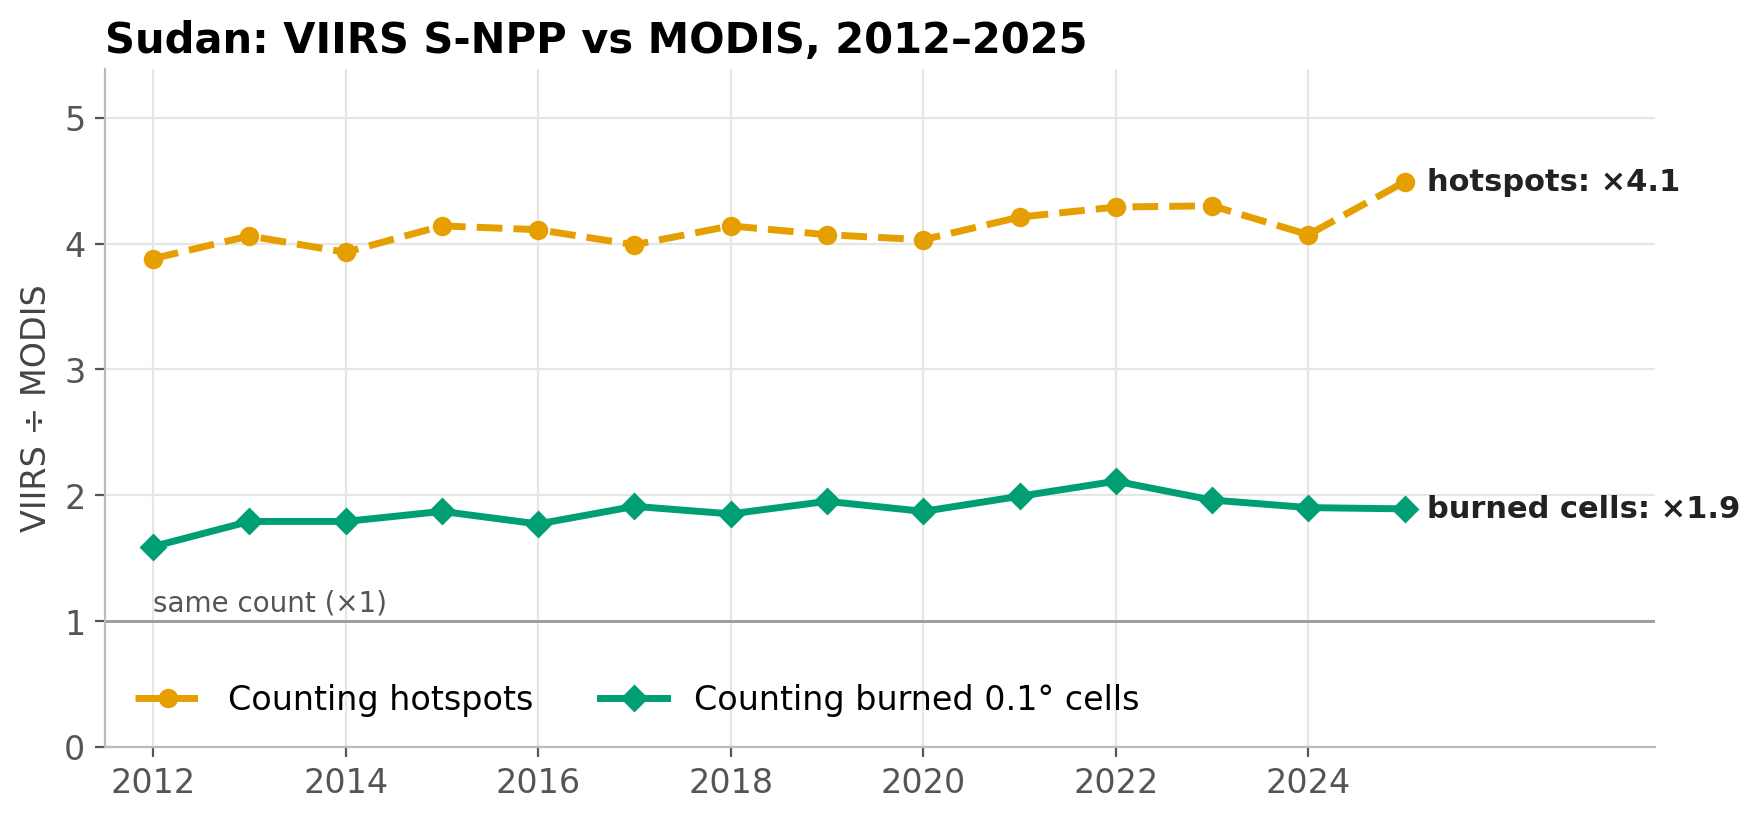
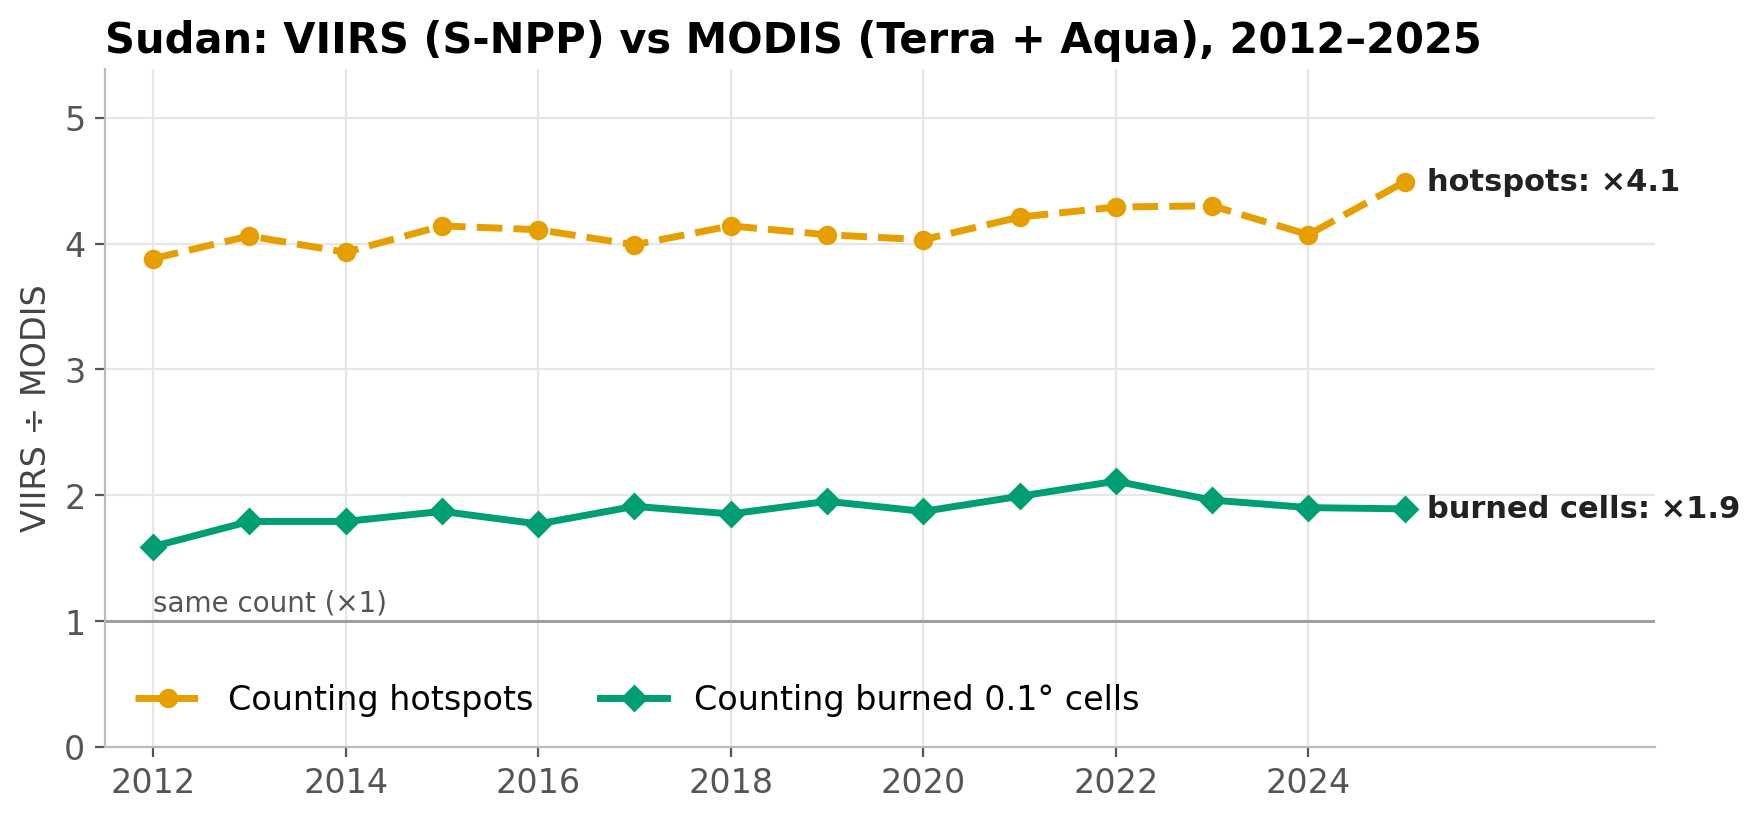
Sudan sensor comparison: verified counts, fair same-pass test
- Counts recomputed independently from clean.py's per-file outputs: identical.
- Ratios now say what they compare: one VIIRS satellite vs both MODIS satellites (x4.1;
  x6.8 vs Aqua alone).
- same_pass corrects for Aqua swath gaps (only 1 deg boxes both satellites saw fire in that day)
  and pixel size (neighbouring 0.1 deg cell counts), 2012-2021 before Aqua's drift:
  VIIRS sees 93% of MODIS fire cells, MODIS 67% of VIIRS (uncorrected 71% / 22% overstated it).

Changed region(s): [[0.2188, 0.0, 0.8438, 0.0916]]

diff --git a/syntra/compare.py b/syntra/compare.py
@@ -1,7 +1,8 @@
 """Step 3 of the team checklist: how MODIS and VIIRS differ (resolution and sensitivity), on clean data.
 
 Input: clean vegetation fires from syntra.pipeline.load_country (static sources removed, inside the border).
-Compares MODIS (Terra + Aqua) with ONE VIIRS satellite (Suomi NPP) over full years both flew.
+Compares MODIS (BOTH satellites, Terra + Aqua) with ONE VIIRS satellite (Suomi NPP) over full years both flew.
+Read the ratios that way: against Aqua alone, S-NPP has about 7x the hotspots in Sudan, against Terra alone ~11x.
 
     from syntra.pipeline import load_country
     from syntra import compare
@@ -15,7 +16,8 @@ Questions it answers
 1. Resolution: VIIRS pixels are ~7x smaller, so one fire gives several VIIRS hotspots. Counting burned
    0.1 deg cells instead of points removes much of that (hotspot ratio vs cell ratio).
 2. Sensitivity: does VIIRS see the fires MODIS sees, plus extra small ones? Aqua and Suomi NPP both pass at
-   about 13:30 local time, so on the same day and the same 0.1 deg cell they look at the same fire.
+   about 13:30 local time, so on the same day near the same 0.1 deg cell they look at the same fire
+   (same_pass corrects for swath gaps and pixel size; see its docstring).
 """
 import numpy as np
 import pandas as pd
@@ -67,41 +69,55 @@ def monthly_correlation(veg, years=YEARS):
             "n_months": len(cs)}
 
 
-def same_pass(veg, years=YEARS):
-    """Aqua vs Suomi NPP, daytime, same date and same 0.1 deg cell (both pass at about 13:30).
+def _cell_days(rows):
+    """One row per (day, 0.1 deg cell, 1 deg box) with the strongest FRP that day."""
+    r = rows.assign(cy=np.floor(rows.latitude * 10).astype(int), cx=np.floor(rows.longitude * 10).astype(int),
+                    by=np.floor(rows.latitude).astype(int), bx=np.floor(rows.longitude).astype(int))
+    return r.groupby(["acq_date", "cy", "cx"], as_index=False).agg(by=("by", "first"), bx=("bx", "first"),
+                                                                    month=("month", "first"), frp=("frp", "max"))
 
-    Returns the shares of each sensor's cell-days the other one also saw, the median FRP of
-    cell-days seen by both vs by VIIRS only, and the same shares per calendar month.
+
+def _seen_by(src, other, neighbours=True):
+    """True where `other` has fire on the same day in the same 0.1 deg cell (or a neighbouring one)."""
+    keys = other[["acq_date", "cy", "cx"]].drop_duplicates()
+    hit = np.zeros(len(src), bool)
+    offs = [(i, j) for i in (-1, 0, 1) for j in (-1, 0, 1)] if neighbours else [(0, 0)]
+    base = src[["acq_date", "cy", "cx"]].reset_index(drop=True)
+    for i, j in offs:
+        k = keys.assign(cy=keys.cy - i, cx=keys.cx - j, _hit=True)
+        hit |= base.merge(k, on=["acq_date", "cy", "cx"], how="left")["_hit"].notna().to_numpy()
+    return hit
+
+
+def same_pass(veg, years=(2012, 2021), coverage=True, neighbours=True):
+    """Aqua (MODIS) vs Suomi NPP (VIIRS), daytime, same date: who sees whose fires.
+
+    Both pass at about 13:30 local time (Sudan: median 11:36 vs 11:25 UTC), so they look at the same fires.
+    Two corrections make it a fair test:
+    - coverage=True: only 1 deg boxes where BOTH satellites detected some fire that day. Aqua's swath is
+      narrower (2,330 vs 3,060 km) and leaves gaps near the equator; a fire Aqua never flew over is not a miss.
+    - neighbours=True: a fire in the next 0.1 deg cell counts as seen. MODIS pixels grow to ~2 x 4.8 km at the
+      swath edge, so the same fire can land in the cell next door.
+    years: 2012-2021 by default, before Aqua's orbit began to drift (same overlap as syntra.harmonize).
     """
-    v0 = veg[(veg.year >= years[0]) & (veg.year <= years[1]) & (veg.daynight == "D")]
-
-    def cell_days(rows):
-        g = rows.groupby(["acq_date", "cell_id"]).agg(frp=("frp", "max"), month=("month", "first"))
-        return g
-
-    a = cell_days(v0[v0.satellite == "Aqua"])
-    n = cell_days(v0[v0.satellite == SNPP])
-    both = n.index.intersection(a.index)
-    n_only = n.index.difference(a.index)
-    a_only = a.index.difference(n.index)
+    x = veg[(veg.year >= years[0]) & (veg.year <= years[1]) & (veg.daynight == "D")]
+    a, n = _cell_days(x[x.satellite == "Aqua"]), _cell_days(x[x.satellite == SNPP])
+    if coverage:
+        boxes = a[["acq_date", "by", "bx"]].drop_duplicates().merge(n[["acq_date", "by", "bx"]].drop_duplicates())
+        a, n = a.merge(boxes), n.merge(boxes)
+    a["seen"], n["seen"] = _seen_by(a, n, neighbours), _seen_by(n, a, neighbours)
     out = {
-        "aqua_cell_days": len(a), "snpp_cell_days": len(n), "both": len(both),
-        "share_of_aqua_seen_by_snpp": len(both) / len(a) if len(a) else np.nan,
-        "share_of_snpp_seen_by_aqua": len(both) / len(n) if len(n) else np.nan,
-        "snpp_frp_median_both": float(n.loc[both, "frp"].median()),
-        "snpp_frp_median_snpp_only": float(n.loc[n_only, "frp"].median()),
-        "aqua_frp_median_both": float(a.loc[both, "frp"].median()),
-        "aqua_frp_median_aqua_only": float(a.loc[a_only, "frp"].median()),
+        "years": years, "coverage": coverage, "neighbours": neighbours,
+        "aqua_cell_days": len(a), "snpp_cell_days": len(n),
+        "share_of_aqua_seen_by_snpp": float(a.seen.mean()), "share_of_snpp_seen_by_aqua": float(n.seen.mean()),
+        "snpp_frp_median_both": float(n.loc[n.seen, "frp"].median()),
+        "snpp_frp_median_snpp_only": float(n.loc[~n.seen, "frp"].median()),
     }
-    mon = pd.DataFrame({
-        "snpp_cell_days": n.groupby("month").size(),
-        "aqua_cell_days": a.groupby("month").size(),
-        "both": n.loc[both].groupby("month").size(),
-    }).reindex(range(1, 13)).fillna(0).astype(int)
-    mon["share_of_aqua_seen_by_snpp"] = (mon.both / mon.aqua_cell_days.replace(0, np.nan)).round(3)
-    mon["share_of_snpp_seen_by_aqua"] = (mon.both / mon.snpp_cell_days.replace(0, np.nan)).round(3)
-    out["by_month"] = mon
-    out["frp"] = {"VIIRS seen by both": n.loc[both, "frp"].values, "VIIRS only": n.loc[n_only, "frp"].values}
+    mon = pd.DataFrame({"aqua_cell_days": a.groupby("month").size(), "snpp_cell_days": n.groupby("month").size(),
+                        "share_of_aqua_seen_by_snpp": a.groupby("month").seen.mean(),
+                        "share_of_snpp_seen_by_aqua": n.groupby("month").seen.mean()}).reindex(range(1, 13))
+    out["by_month"] = mon.round(3)
+    out["frp"] = {"VIIRS seen by both": n.loc[n.seen, "frp"].values, "VIIRS only": n.loc[~n.seen, "frp"].values}
     return out
 
 

diff --git a/syntra/figures.py b/syntra/figures.py
@@ -195,7 +195,7 @@ def gap_by_year(yearly, country, path=None):
     ax.set_xlim(yearly.index[0] - 0.5, yearly.index[-1] + 2.6)
     ax.set_xticks(range(int(yearly.index[0]), int(yearly.index[-1]) + 1, 2))
     ax.set_ylabel("VIIRS ÷ MODIS")
-    ax.set_title(f"{country.replace('_', ' ')}: VIIRS S-NPP vs MODIS, {yearly.index[0]}–{yearly.index[-1]}")
+    ax.set_title(f"{country.replace('_', ' ')}: VIIRS (S-NPP) vs MODIS (Terra + Aqua), {yearly.index[0]}–{yearly.index[-1]}")
     ax.legend(loc="lower left", ncol=2)
     return _save(fig, path)
 
@@ -226,15 +226,17 @@ def same_pass(sp, country, path=None):
         ax.barh(i, 1, color="#E6E6E6", height=0.55)
         ax.barh(i, share, color=VIIRS if i == 1 else MODIS, height=0.55, hatch=None if i == 1 else "//",
                 edgecolor="white")
-        ax.text(share + 0.01, i, f"{share:.0%}", va="center", fontsize=13, fontweight="bold", color=INK)
-        ax.text(0.99, i, f"of {n:,} cell-days", va="center", ha="right", fontsize=10, color="#555555")
-    ax.set_yticks([0, 1], [r[0] for r in rows[::-1]])
+        ax.text(share - 0.015, i, f"{share:.0%}", va="center", ha="right", fontsize=13, fontweight="bold",
+                color=INK, bbox=dict(facecolor="white", edgecolor="none", pad=2))
+    ax.set_yticks([0, 1], [f"{r[0]}\n({r[2]:,} cell-days)" for r in rows[::-1]])
     ax.set_xlim(0, 1)
     ax.set_xticks([])
     ax.grid(False)
     for s in ("bottom", "left"):
         ax.spines[s].set_visible(False)
-    ax.set_title(f"{country.replace('_', ' ')}: same afternoon pass, same day, same 0.1° cell")
+    ax.set_title(f"{country.replace('_', ' ')}: Aqua vs Suomi NPP, same ~13:30 pass, {sp['years'][0]}–{sp['years'][1]}")
+    ax.set_xlabel("Same day, same or neighbouring 0.1° cell, only where both satellites detected fire nearby",
+                  fontsize=10, color="#555555")
     return _save(fig, path)
 
 

diff --git a/docs/STATUS.md b/docs/STATUS.md
@@ -17,8 +17,11 @@ Where the project stands. Newest first. Update it when something lands.
 
 Riyadh's checklist: 1 download ✅ → 2 clean ✅ → **3 handle the difference ✅** → 4 aggregate monthly ✅ → 5 app ✅ (deploy still to do).
 `notebooks/02_modis_vs_viirs.ipynb` + `syntra/compare.py`, figures 08–11, tables `outputs/tables/sensor_*_Sudan.csv`.
-Sudan 2012–2025: hotspots ×4.1 vs burned cells ×1.9 (resolution); same pass, VIIRS sees 71 % of MODIS's fire cells,
-MODIS 22 % of VIIRS's, extra VIIRS fires are small (sensitivity); the gap is ×1.4 in Nov, ×6.8 in Jul (per-month factor).
+Sudan 2012–2025: hotspots ×4.1 vs burned cells ×1.9 (resolution; one VIIRS satellite vs both MODIS satellites);
+same pass, VIIRS sees 93 % of MODIS's fire cells, MODIS 67 % of VIIRS's, extra VIIRS fires are small (sensitivity);
+the gap is ×1.4 in Nov, ×6.8 in Jul (per-month factor).
+**Checked (Hisham, 15:30):** counts recomputed independently from the clean files: identical. The first same-pass
+figure (71 % / 22 %) was **[OUTDATED]**: it counted Aqua swath gaps and next-cell fires as misses. Corrected test above.
 ## 2026-11-14, about 14:00 (Hisham): app on PR #3's method, Sudan fully cleaned, figures
 
 - **The app now uses `syntra/harmonize.py` (PR #3)**: burned 0.1° cells per month. See `docs/DECISIONS.md`.

diff --git a/README.md b/README.md
@@ -27,9 +27,11 @@ Then open `notebooks/00_load_data.ipynb` and run all cells. The app runs with `s
 ## MODIS vs VIIRS on clean data (checklist step 3)
 
 `notebooks/02_modis_vs_viirs.ipynb` (code `syntra/compare.py`), Sudan, MODIS vs VIIRS S-NPP, 2012–2025:
-- **Resolution:** VIIRS has ×4.1 MODIS's hotspots but only ×1.9 its burned 0.1° cells, steady every year. Gridding halves the gap.
-- **Sensitivity:** on the same ~13:30 pass (Aqua vs S-NPP, same day, same 0.1° cell) VIIRS sees 71 % of MODIS's fire
-  cells, MODIS sees 22 % of VIIRS's. The extra VIIRS fires are small: 49 % of VIIRS hotspots are below 5 MW, 0.6 % of MODIS's.
+- **Resolution:** one VIIRS satellite has ×4.1 the hotspots of both MODIS satellites together (×6.8 vs Aqua alone), but
+  only ×1.9 the burned 0.1° cells, steady every year. Gridding halves the gap.
+- **Sensitivity:** on the same ~13:30 pass (Aqua vs S-NPP, 2012–2021, same day, same or neighbouring 0.1° cell, only
+  where both satellites saw fire nearby) VIIRS sees 93 % of MODIS's fire cells, MODIS 67 % of VIIRS's. The extra VIIRS
+  fires are small: 49 % of VIIRS hotspots are below 5 MW, 0.6 % of MODIS's.
 - **Season:** the cell gap is ×1.4 in November but ×6.8 in July (few, small wet-season fires), so the factor must be per month.
 
 ## Harmonization (phases 4 and 5)
